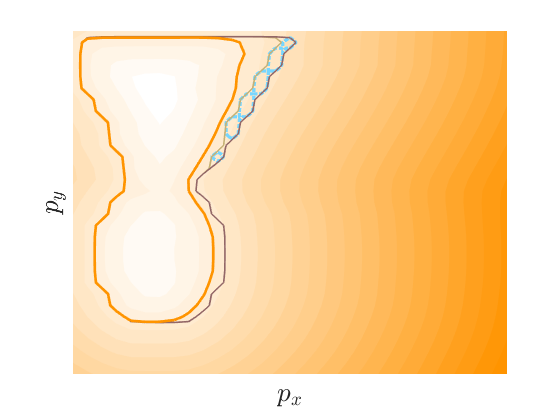
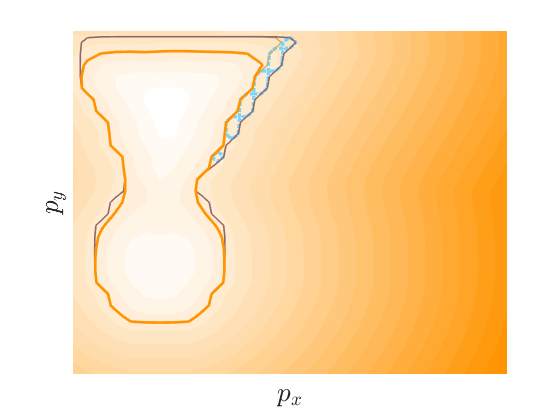
more small updates to local update visualization

diff --git a/src/presentation/Local HJ reachability/HJIPDE_solve_localQ_visualize.m b/src/presentation/Local HJ reachability/HJIPDE_solve_localQ_visualize.m
@@ -1566,7 +1566,7 @@ function [ax0, ax1, ax2, seth, vout] = plotLocalQ(data0, xcurr, vxColor, ...
     ax0, ax1, ax2, seth, vout)
     
     % which theta slice to visualize everything at.
-    thetaVis = 0; %xcurr(3);
+    thetaVis = pi/2; %xcurr(3);
     if length(xcurr) == 4
         velVis = xcurr(4);
     end
